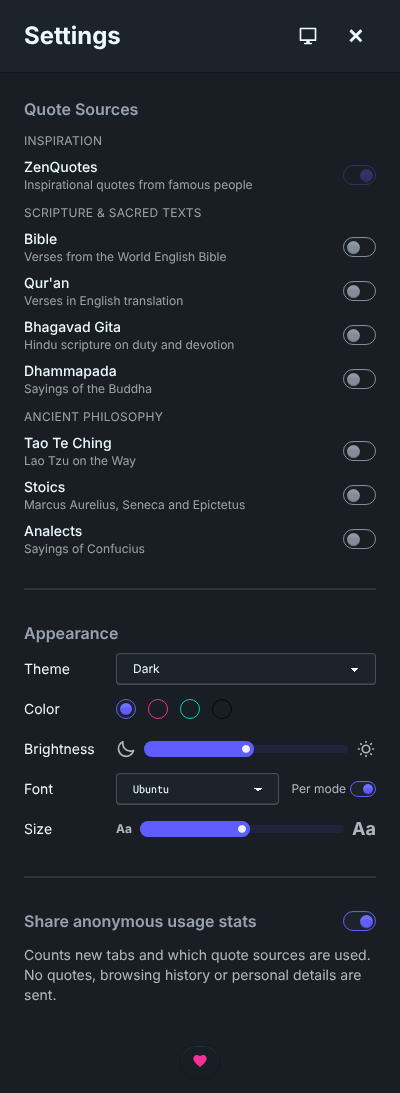
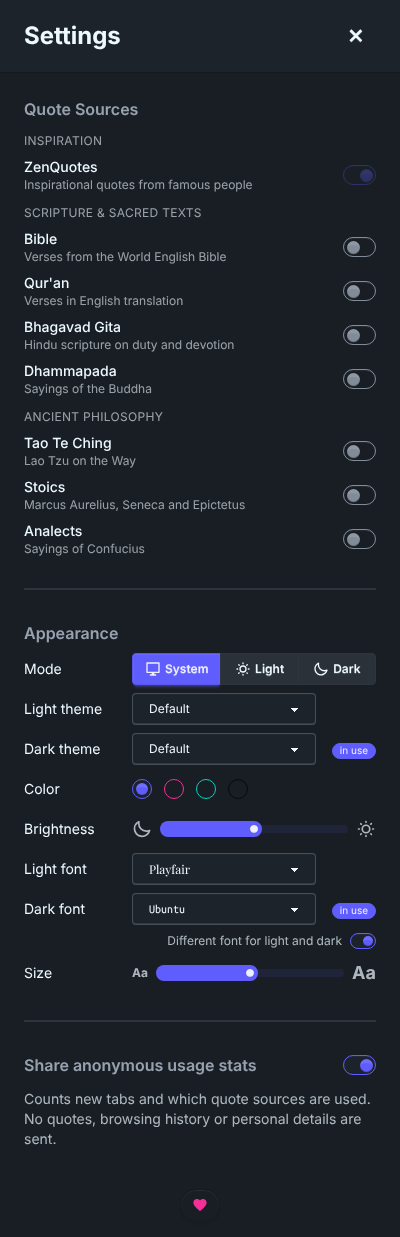
Show light and dark theme pickers side by side with an explicit mode switch
The header's cycling mode button becomes a System/Light/Dark control in
Appearance, both theme pickers are always visible with an "in use" tag on
the one applied, and the themes named Light and Dark read as Default.

Claude-Session: https://claude.ai/code/session_01WmjesNJQ5Pa5NLfaW7JvRN

diff --git a/src/SettingsPanel.tsx b/src/SettingsPanel.tsx
@@ -6,8 +6,7 @@ import {
 	semanticColorThemes,
 	daisyThemeCategories,
 } from "./colors";
-import DayNightSwitch from "./components/DayNightSwitch";
-import { MoonIcon, SunIcon } from "./components/Icons";
+import { MoonIcon, SunIcon, SystemIcon } from "./components/Icons";
 import { SupportModal } from "./components/SupportModal";
 import {
 	quoteSources,
@@ -23,7 +22,7 @@ interface SettingsPanelProps {
 	onSemanticThemeChange: (theme: string) => void;
 	id?: string;
 	selectedThemeMode: "system" | "light" | "dark";
-	onThemeModeChange: () => void;
+	onThemeModeChange: (mode: "system" | "light" | "dark") => void;
 	selectedQuoteFont: string;
 	onQuoteFontChange: (font: string) => void;
 	selectedUIFont: string;
@@ -97,7 +96,7 @@ export const SettingsPanel: React.FC<SettingsPanelProps> = ({
 		sectionContainer: "flex flex-col gap-3",
 		divider: "divider my-0",
 		row: "flex items-center gap-3 min-h-8",
-		rowLabel: "w-20 shrink-0 text-sm",
+		rowLabel: "w-24 shrink-0 text-sm",
 	};
 
 	const radioColorClasses: Record<string, string> = {
@@ -107,26 +106,86 @@ export const SettingsPanel: React.FC<SettingsPanelProps> = ({
 		neutral: "radio-neutral",
 	};
 
-	// Theme and font pickers edit the choice for whichever mode is showing
+	// Which of the light/dark choices is showing right now
 	const isDarkMode =
 		selectedThemeMode === "dark" ||
 		(selectedThemeMode === "system" &&
 			window.matchMedia("(prefers-color-scheme: dark)").matches);
-	const currentThemeCategory = isDarkMode
-		? daisyThemeCategories.dark
-		: daisyThemeCategories.light;
-	const selectedTheme = isDarkMode ? selectedDarkTheme : selectedLightTheme;
-	const onThemeChange = isDarkMode ? onDarkThemeChange : onLightThemeChange;
-	const selectedFont = fontFollowsTheme
-		? isDarkMode
-			? selectedDarkFont
-			: selectedLightFont
-		: selectedQuoteFont;
-	const onFontChange = fontFollowsTheme
-		? isDarkMode
-			? onDarkFontChange
-			: onLightFontChange
-		: onQuoteFontChange;
+
+	const themeModes = [
+		{ id: "system", name: "System", icon: <SystemIcon /> },
+		{ id: "light", name: "Light", icon: <SunIcon /> },
+		{ id: "dark", name: "Dark", icon: <MoonIcon /> },
+	] as const;
+
+	// Marks the light or dark picker that is currently applied
+	const inUseSlot = (inUse: boolean) => (
+		<span className="w-12 shrink-0 text-right">
+			{inUse && (
+				<span className="badge badge-xs badge-primary">in use</span>
+			)}
+		</span>
+	);
+
+	const themeRow = (
+		mode: "light" | "dark",
+		value: string,
+		onChange: (theme: string) => void
+	) => (
+		<div className={styles.row}>
+			<label htmlFor={`settings-${mode}-theme`} className={styles.rowLabel}>
+				{mode === "light" ? "Light theme" : "Dark theme"}
+			</label>
+			<select
+				id={`settings-${mode}-theme`}
+				className="select select-sm flex-1 min-w-0"
+				value={value}
+				onChange={(e) => onChange(e.target.value)}
+			>
+				{daisyThemeCategories[mode].themes.map((theme) => (
+					<option key={theme.id} value={theme.id}>
+						{theme.name}
+					</option>
+				))}
+			</select>
+			{inUseSlot(isDarkMode === (mode === "dark"))}
+		</div>
+	);
+
+	const fontRow = (
+		id: string,
+		label: string,
+		value: string,
+		onChange: (font: string) => void,
+		inUse?: boolean
+	) => (
+		<div className={styles.row}>
+			<label htmlFor={id} className={styles.rowLabel}>
+				{label}
+			</label>
+			<select
+				id={id}
+				className="select select-sm flex-1 min-w-0"
+				value={value}
+				onChange={(e) => onChange(e.target.value)}
+				style={{
+					fontFamily:
+						quoteFonts[value as keyof typeof quoteFonts]?.family,
+				}}
+			>
+				{Object.entries(quoteFonts).map(([key, font]) => (
+					<option
+						key={key}
+						value={key}
+						style={{ fontFamily: font.family }}
+					>
+						{font.name}
+					</option>
+				))}
+			</select>
+			{inUse !== undefined && inUseSlot(inUse)}
+		</div>
+	);
 
 	// Focus management
 	React.useEffect(() => {
@@ -209,10 +268,6 @@ export const SettingsPanel: React.FC<SettingsPanelProps> = ({
 							Settings
 						</h3>
 						<div className="flex items-center gap-2">
-							<DayNightSwitch
-								selectedThemeMode={selectedThemeMode}
-								onThemeModeChange={onThemeModeChange}
-							/>
 							<button
 								className="close-btn btn btn-ghost btn-circle"
 								onClick={onClose}
@@ -304,32 +359,47 @@ export const SettingsPanel: React.FC<SettingsPanelProps> = ({
 								Appearance
 							</label>
 							<div className={styles.row}>
-								<label
-									htmlFor="settings-theme"
-									className={styles.rowLabel}
+								<span className={styles.rowLabel}>Mode</span>
+								<div
+									className="join flex-1"
+									role="radiogroup"
+									aria-label="Light or dark mode"
 								>
-									Theme
-								</label>
-								<select
-									id="settings-theme"
-									className="select select-sm flex-1"
-									value={selectedTheme}
-									onChange={(e) =>
-										onThemeChange(e.target.value)
-									}
-								>
-									{currentThemeCategory.themes.map(
-										(theme) => (
-											<option
-												key={theme.id}
-												value={theme.id}
-											>
-												{theme.name}
-											</option>
-										)
-									)}
-								</select>
+									{themeModes.map((mode) => (
+										<button
+											key={mode.id}
+											type="button"
+											role="radio"
+											aria-checked={
+												selectedThemeMode === mode.id
+											}
+											className={`join-item btn btn-sm flex-1 gap-1 ${
+												selectedThemeMode === mode.id
+													? "btn-primary"
+													: "btn-soft"
+											}`}
+											onClick={() =>
+												onThemeModeChange(mode.id)
+											}
+										>
+											<span className="[&>svg]:w-4 [&>svg]:h-4">
+												{mode.icon}
+											</span>
+											{mode.name}
+										</button>
+									))}
+								</div>
 							</div>
+							{themeRow(
+								"light",
+								selectedLightTheme,
+								onLightThemeChange
+							)}
+							{themeRow(
+								"dark",
+								selectedDarkTheme,
+								onDarkThemeChange
+							)}
 							<div className={styles.row}>
 								<span className={styles.rowLabel}>Color</span>
 								<div
@@ -388,65 +458,46 @@ export const SettingsPanel: React.FC<SettingsPanelProps> = ({
 									</span>
 								</div>
 							</div>
-							<div className={styles.row}>
-								<label
-									htmlFor="settings-font"
-									className={styles.rowLabel}
-								>
-									Font
-								</label>
-								<select
-									id="settings-font"
-									className="select select-sm flex-1 min-w-0"
-									value={selectedFont}
-									onChange={(e) =>
-										onFontChange(e.target.value)
-									}
-									style={{
-										fontFamily:
-											quoteFonts[
-												selectedFont as keyof typeof quoteFonts
-											]?.family,
-									}}
-								>
-									{Object.entries(quoteFonts).map(
-										([key, font]) => (
-											<option
-												key={key}
-												value={key}
-												style={{
-													fontFamily: font.family,
-												}}
-											>
-												{font.name}
-											</option>
-										)
+							{fontFollowsTheme ? (
+								<>
+									{fontRow(
+										"settings-light-font",
+										"Light font",
+										selectedLightFont,
+										onLightFontChange,
+										!isDarkMode
 									)}
-								</select>
-								<label
-									className="flex items-center gap-1 cursor-pointer"
-									title={
-										fontFollowsTheme
-											? "Separate fonts for light and dark mode"
-											: "Same font in light and dark mode"
+									{fontRow(
+										"settings-dark-font",
+										"Dark font",
+										selectedDarkFont,
+										onDarkFontChange,
+										isDarkMode
+									)}
+								</>
+							) : (
+								fontRow(
+									"settings-font",
+									"Font",
+									selectedQuoteFont,
+									onQuoteFontChange
+								)
+							)}
+							<label className="flex items-center justify-end gap-2 cursor-pointer">
+								<span className="text-xs opacity-70">
+									Different font for light and dark
+								</span>
+								<input
+									type="checkbox"
+									className="toggle toggle-primary toggle-xs"
+									checked={fontFollowsTheme}
+									onChange={(e) =>
+										onFontFollowsThemeChange(
+											e.target.checked
+										)
 									}
-								>
-									<span className="text-xs opacity-70">
-										Per mode
-									</span>
-									<input
-										type="checkbox"
-										className="toggle toggle-primary toggle-xs"
-										checked={fontFollowsTheme}
-										onChange={(e) =>
-											onFontFollowsThemeChange(
-												e.target.checked
-											)
-										}
-										aria-label="Font follows theme"
-									/>
-								</label>
-							</div>
+								/>
+							</label>
 							<div className={styles.row}>
 								<span className={styles.rowLabel}>Size</span>
 								<div className="flex flex-1 items-center gap-2">

diff --git a/src/colors.ts b/src/colors.ts
@@ -27,7 +27,7 @@ export const daisyThemeCategories = {
 	light: {
 		name: 'Light Themes',
 		themes: [
-			{ id: 'light', name: 'Light' },
+			{ id: 'light', name: 'Default' },
 			{ id: 'cupcake', name: 'Cupcake' },
 			{ id: 'emerald', name: 'Emerald' },
 			{ id: 'corporate', name: 'Corporate' },
@@ -50,7 +50,7 @@ export const daisyThemeCategories = {
 	dark: {
 		name: 'Dark Themes',
 		themes: [
-			{ id: 'dark', name: 'Dark' },
+			{ id: 'dark', name: 'Default' },
 			{ id: 'synthwave', name: 'Synthwave' },
 			{ id: 'halloween', name: 'Halloween' },
 			{ id: 'forest', name: 'Forest' },

diff --git a/src/newtab.tsx b/src/newtab.tsx
@@ -261,11 +261,8 @@ function NewTabApp() {
 		storageService.saveSettings({ themeMode: selectedThemeMode });
 	}, [selectedThemeMode]);
 
-	// Cycle theme mode
-	const handleThemeModeChange = () => {
-		setSelectedThemeMode((prev) =>
-			prev === "system" ? "light" : prev === "light" ? "dark" : "system"
-		);
+	const handleThemeModeChange = (mode: "system" | "light" | "dark") => {
+		setSelectedThemeMode(mode);
 	};
 
 	// Apply theme mode override
